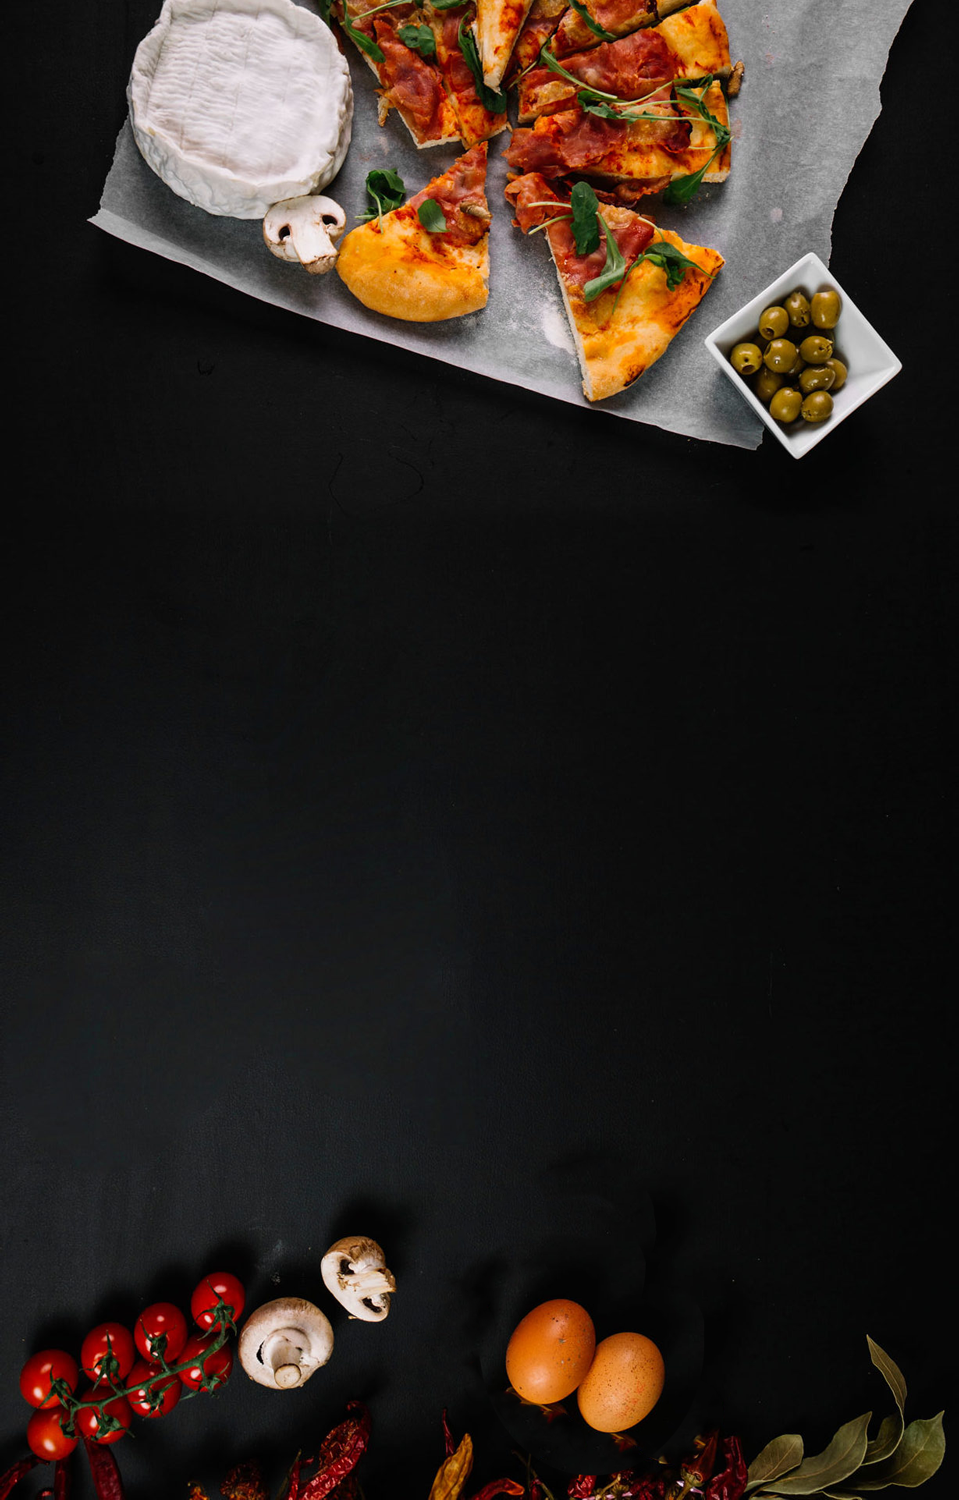
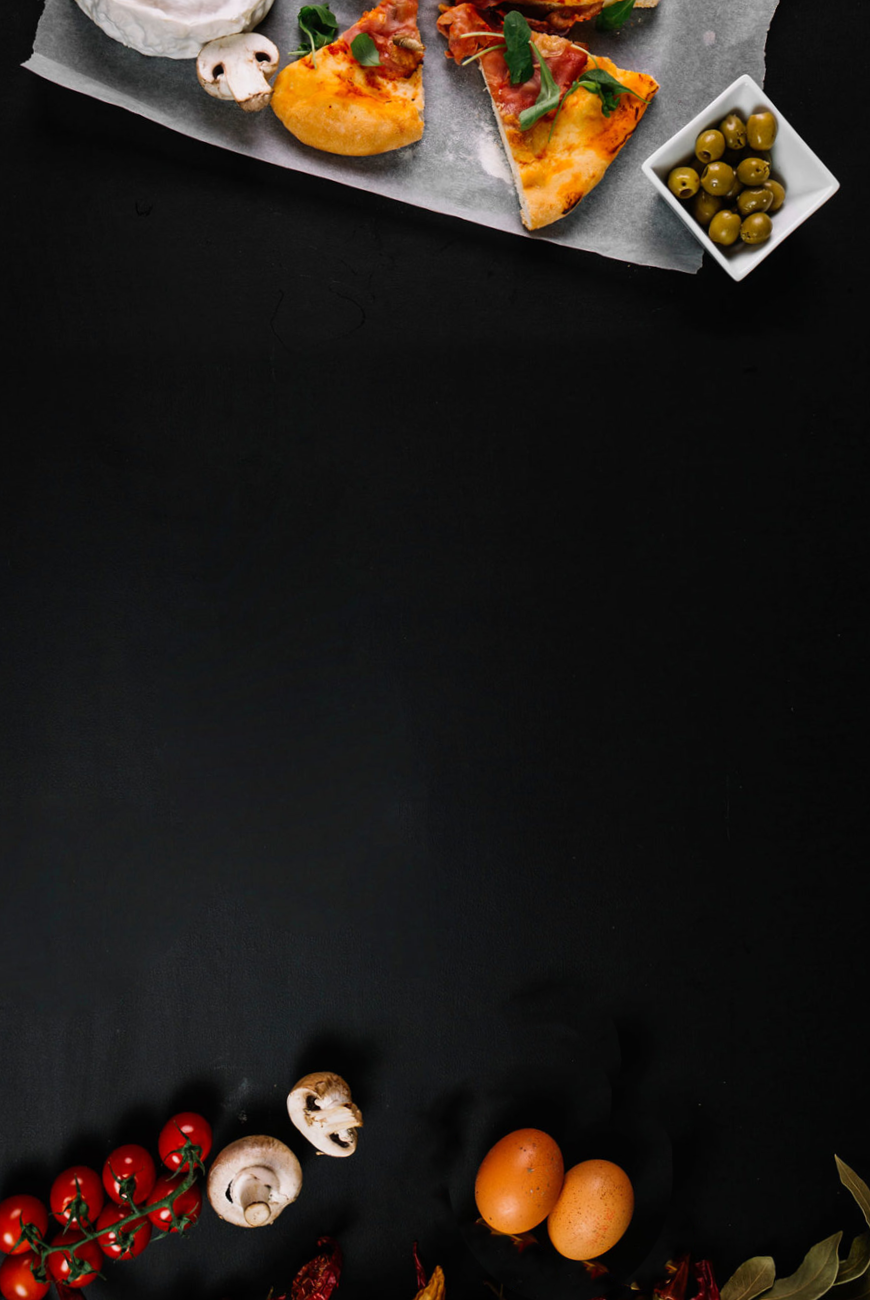
fluid-responsive design

Changed region(s): [[0.031, 0.0, 0.9621, 0.3077], [0.4345, 0.8615, 1.0, 1.0], [0.0, 0.8308, 0.4345, 1.0]]

diff --git a/styles.css b/styles.css
@@ -142,17 +142,26 @@ h1 {
   text-align: center;
   font-family: 'Sansita Swashed', cursive;
   color: #fff;
-  font-size: 54px;
+  font-size: Min(Max(1.5625em, calc(1.5625rem + ((1vw - 0.236875em) * 3.2917))), 3.375em);
   font-weight: 600;
   letter-spacing: 5px;
-  line-height: 1em;
-  padding: 40px;
-  margin: 90px auto;
-  margin-top: -100px;
+  line-height: 1.1em;
   border: 3px dotted #fff;
-  border-radius: 40px;
   border-left-width: 0;
   border-right-width: 0;
+  padding-top: 0.5em;
+  padding-bottom: 0.7em;
+  margin-top: -1.6em;
+}
+
+p.intro {
+  text-align: center;
+  font-family: 'Open Sans', sans-serif;
+  color: #fff;
+  font-size: Min(Max(0.75em, calc(0.75rem + ((1vw - 0.236875em) * 0.681))), 1.125em);
+  line-height: 1.9em;
+  letter-spacing: 0.03em;
+  margin: 0 auto;
 }
 
 .heroDiv {
@@ -162,43 +171,28 @@ h1 {
 }
 
 .introDiv {
-  background-image: url(img/intro-bg.jpg);
+  background: -webkit-gradient(linear, left top, left bottom, from(rgba(0, 0, 0, 0)), color-stop(rgba(0, 0, 0, 0)), color-stop(rgba(0, 0, 0, 0)), to(rgba(255, 255, 255, 0.959))), url(img/intro-bg.jpg);
+  background: linear-gradient(180deg, rgba(0, 0, 0, 0), rgba(0, 0, 0, 0), rgba(0, 0, 0, 0), rgba(255, 255, 255, 0.959)), url(img/intro-bg.jpg);
   background-size: cover;
   padding: 25%;
-}
-
-p.intro {
-  text-align: center;
-  font-family: 'Open Sans', sans-serif;
-  font-size: 18px;
-  line-height: 1.9em;
-  width: 100%;
-  max-width: 820px;
-  margin: 0 auto;
-  padding: 40px 30px auto;
-  color: #fff;
 }
 
 @media (max-width: 1024px) {
   .heroDiv {
     background-image: url(img/welcome-pizza-mob.png);
     background-size: cover;
-    padding: 60%;
+    padding-top: 20em;
+    padding-bottom: 20em;
   }
 }
 
 @media (max-width: 1024px) {
   .introDiv {
-    background-image: url(img/intro-bg-mob.jpg);
+    background: -webkit-gradient(linear, left top, left bottom, from(rgba(0, 0, 0, 0)), color-stop(rgba(0, 0, 0, 0)), color-stop(rgba(0, 0, 0, 0)), to(rgba(255, 255, 255, 0.959))), url(img/intro-bg-mob.jpg);
+    background: linear-gradient(180deg, rgba(0, 0, 0, 0), rgba(0, 0, 0, 0), rgba(0, 0, 0, 0), rgba(255, 255, 255, 0.959)), url(img/intro-bg-mob.jpg);
     background-size: cover;
-    padding: 35%;
-  }
-  h1 {
-    position: absolute;
-    font-size: 35px;
-  }
-  p.intro {
-    width: 130%;
+    padding-top: 15em;
+    padding-bottom: 15em;
   }
 }
 /*# sourceMappingURL=styles.css.map */

diff --git a/_welcome.scss b/_welcome.scss
@@ -3,17 +3,26 @@ h1 {
   text-align: center;
   font-family: 'Sansita Swashed', cursive;
   color: #fff;
-	font-size: 54px;
+	font-size: Min(Max(1.5625em, calc(1.5625rem + ((1vw - 0.236875em) * 3.2917))), 3.375em);
 	font-weight: 600;
   letter-spacing: 5px;
-  line-height: 1em;
-  padding: 40px;
-  margin: 90px auto;
-  margin-top: -100px;
+  line-height: 1.1em;
   border: 3px dotted #fff;
-  border-radius: 40px;
   border-left-width: 0;
   border-right-width: 0;
+  padding-top: 0.5em;
+  padding-bottom: 0.7em;
+  margin-top: -1.6em;
+}
+
+p.intro {
+  text-align: center;
+  font-family: 'Open Sans', sans-serif;
+  color: #fff;
+  font-size: Min(Max(0.75em, calc(0.75rem + ((1vw - 0.236875em) * 0.681))), 1.125em);
+  line-height: 1.9em;
+  letter-spacing: 0.03em;
+  margin: 0 auto;
 }
 
 .heroDiv {
@@ -23,44 +32,26 @@ h1 {
 }
 
 .introDiv {
-  background-image: url(img/intro-bg.jpg);
+  // background-image: url(img/intro-bg.jpg);
+  background: linear-gradient(180deg, rgba(0,0,0,0),  rgba(0,0,0,0), rgba(0,0,0,0), rgba(255, 255, 255, 0.959)), url(img/intro-bg.jpg); 
   background-size: cover;
   padding: 25%;
-}
-
-p.intro {
-  text-align: center;
-  font-family: 'Open Sans', sans-serif;
-  font-size: 18px;
-  line-height: 1.9em;
-  width: 100%;
-  max-width: 820px;
-  margin: 0 auto;
-  padding: 40px 30px auto;
-  color: #fff;
 }
 
 @media (max-width: 1024px) {
 	.heroDiv {
     background-image: url(img/welcome-pizza-mob.png);
     background-size: cover;
-    padding: 60%;  
+    padding-top: 20em;
+    padding-bottom: 20em;
   }
 }
 
 @media (max-width: 1024px){
   .introDiv {
-    background-image: url(img/intro-bg-mob.jpg);
+    background: linear-gradient(180deg, rgba(0,0,0,0),  rgba(0,0,0,0), rgba(0,0,0,0), rgba(255, 255, 255, 0.959)), url(img/intro-bg-mob.jpg); 
     background-size: cover;
-    padding: 35%;  
-  }
-
-  h1 {
-    position: absolute;
-    font-size: 35px;
-  }
-
-  p.intro {
-  width: 130%;
+    padding-top: 15em;
+    padding-bottom: 15em;
   }
 }
